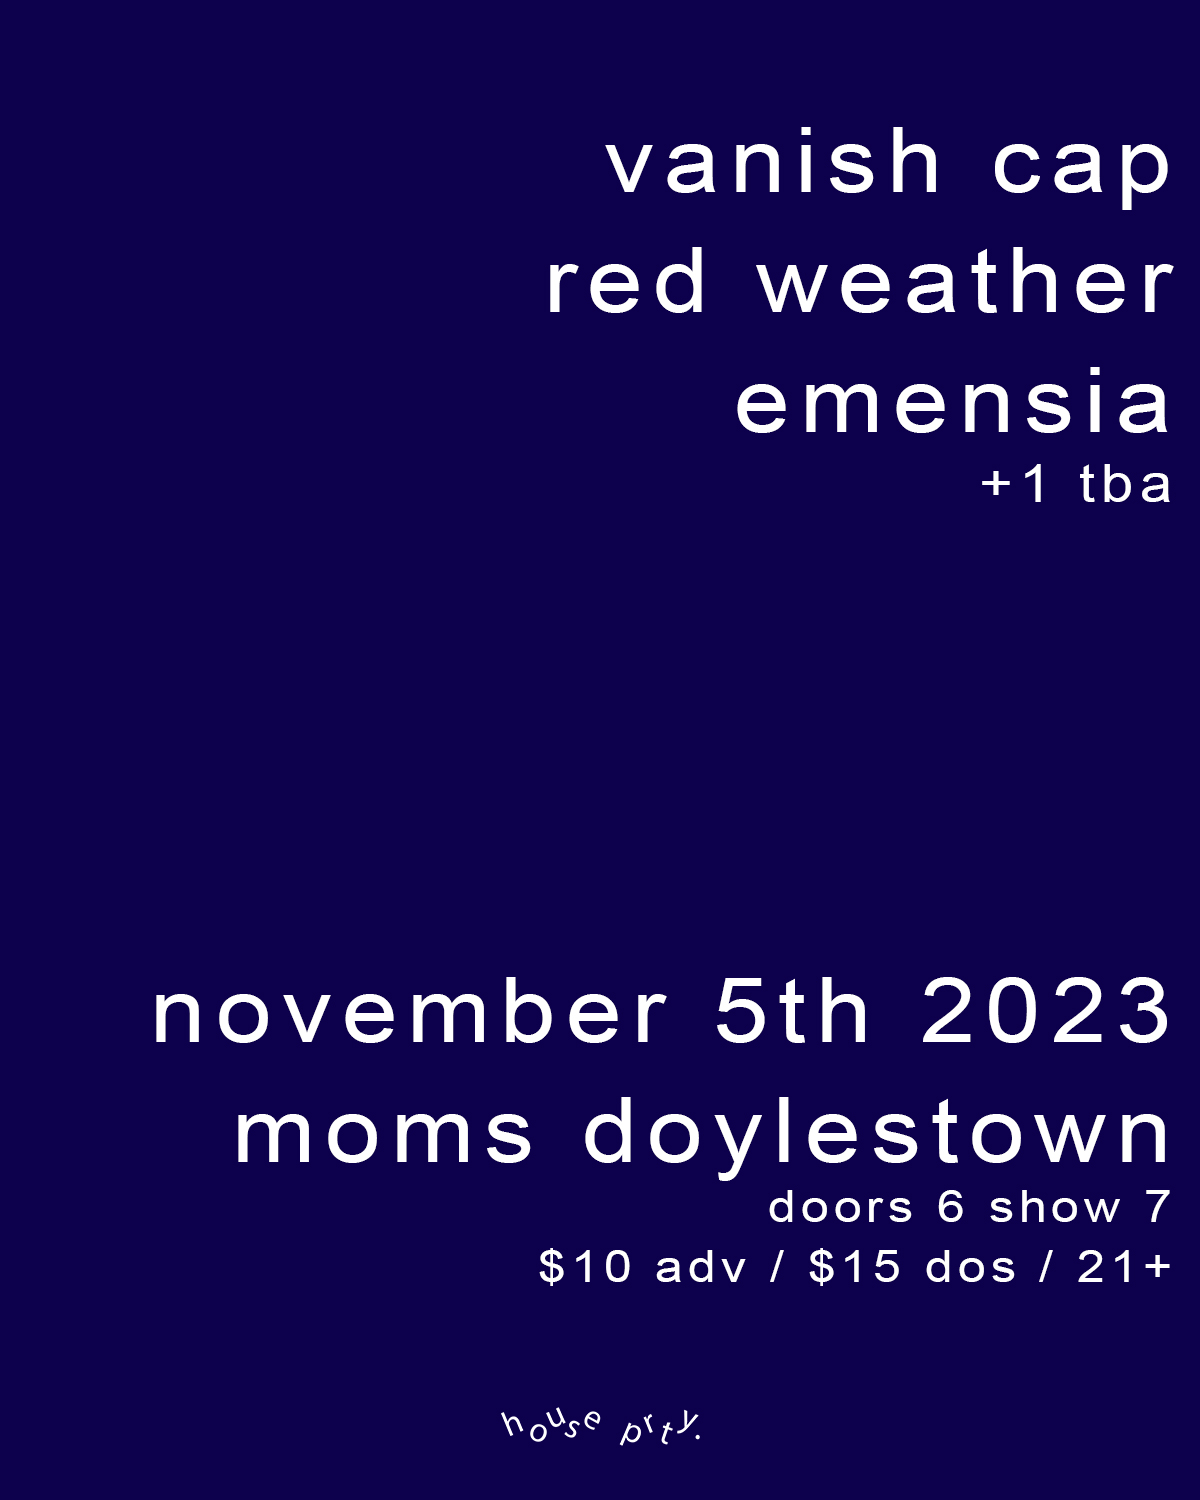
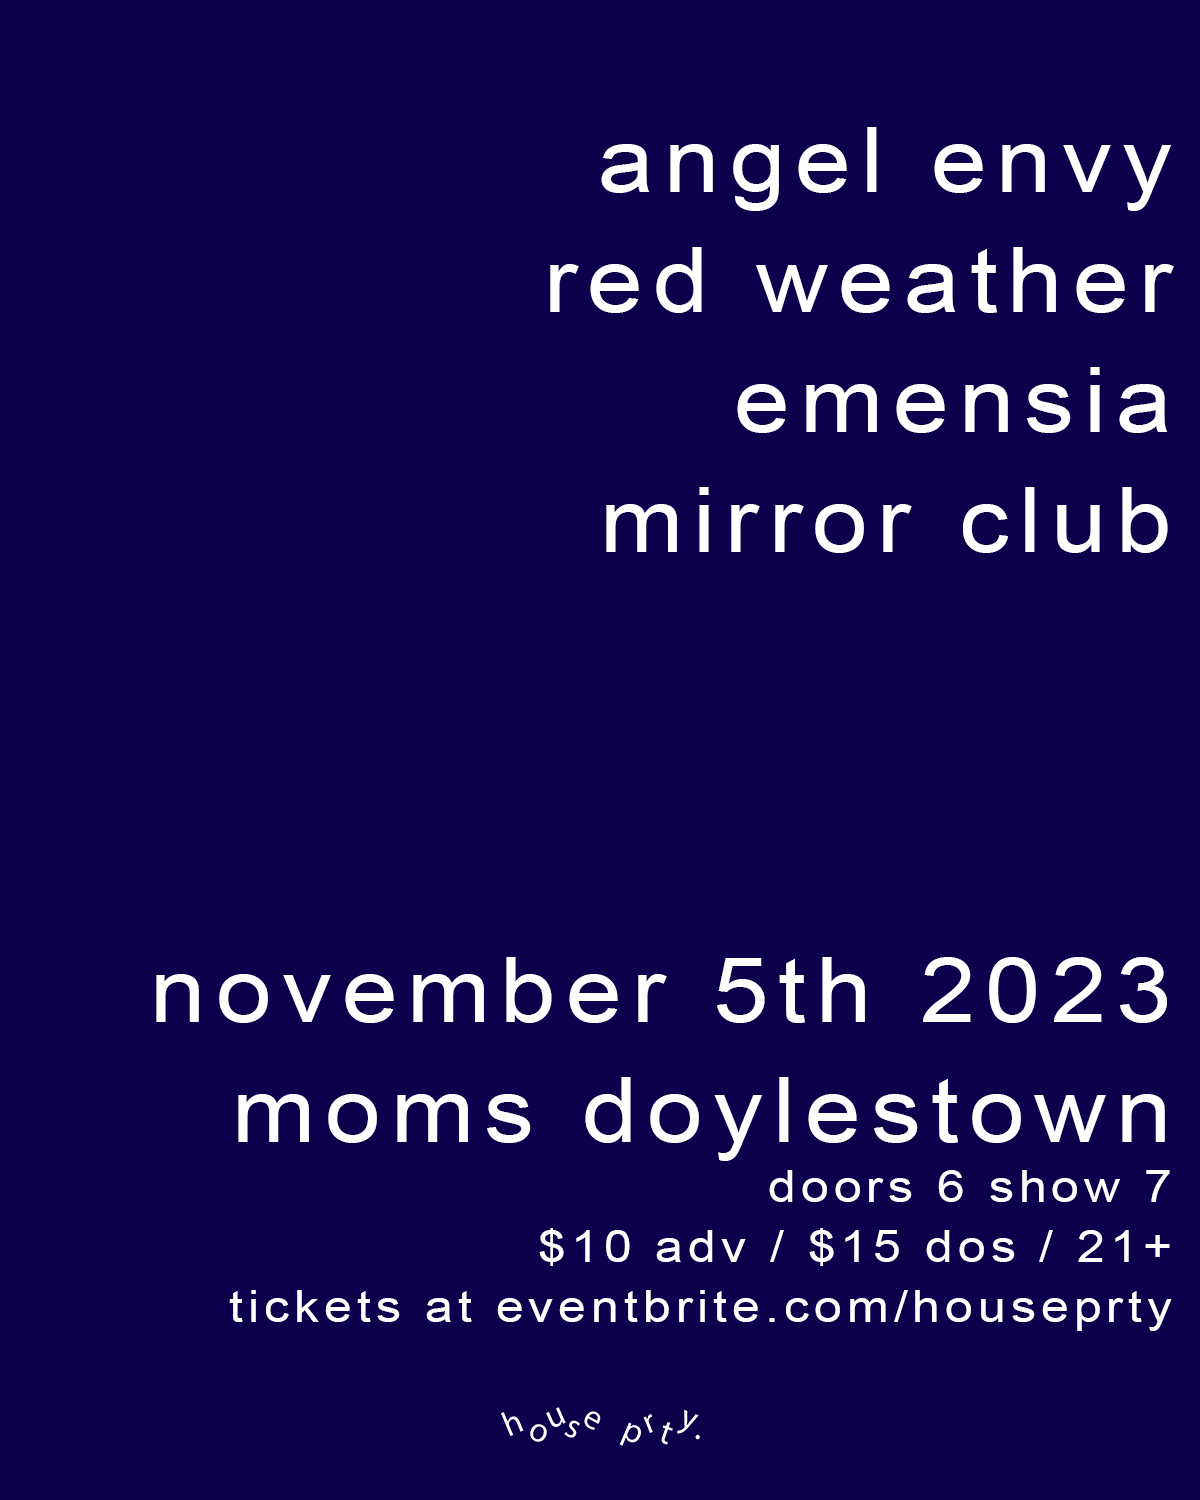
Shows

diff --git a/shows.html b/shows.html
@@ -105,8 +105,8 @@
         </div>
 
         <div class="show press-width">
-            <img class="show-flyer press-header-photo" src="img/shows/23-11-05.png" alt="Upcoming Red Weather show flyer">
-            <h3 class="show-name">Vanish Cap, Red Weather & Emensia</h3>
+            <img class="show-flyer press-header-photo" src="img/shows/23-11-05.jpg" alt="Upcoming Red Weather show flyer">
+            <h3 class="show-name">Angel Envy, Red Weather, Emensia, & Mirror Club</h3>
             <p class="show-desc">
                 <b>Date:&emsp;</b> Nov. 5, 2023<br>
                 <b>Venue:&emsp;</b> Maxwell's on Main<br>
